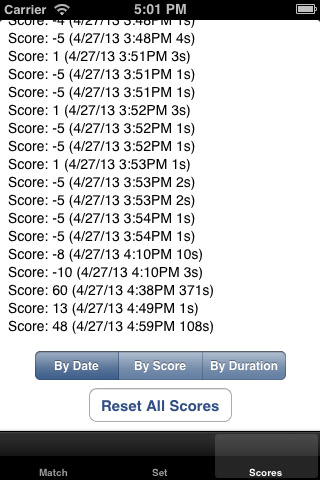
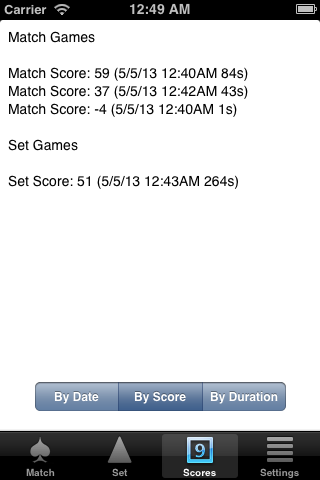
Release notes for Assignment 2 with extra credits

diff --git a/readme.md b/readme.md
@@ -25,7 +25,17 @@ Game Scores
 
 ![Game Scores Screenshot](screenshot-scores.png)
 
+Settings
+
+![Settings Screenshot](screenshot-settings.png)
+
 ## Release Notes
+
+### Assignment 2 with Extra Credits Release: 5 May April 2013
+This includes full Assignment 2 implementation with all extra credits added:
+ - Beautiful icons for all tabs: Match, Set, Scores and Settings.
+ - Game Scores for Match and Set Games
+ - Settings tab which now allows to reset all score history.
 
 ### Assignment 2 Release: 27 April 2013
 Main feature of this release is a Set Card Game support including following features:
